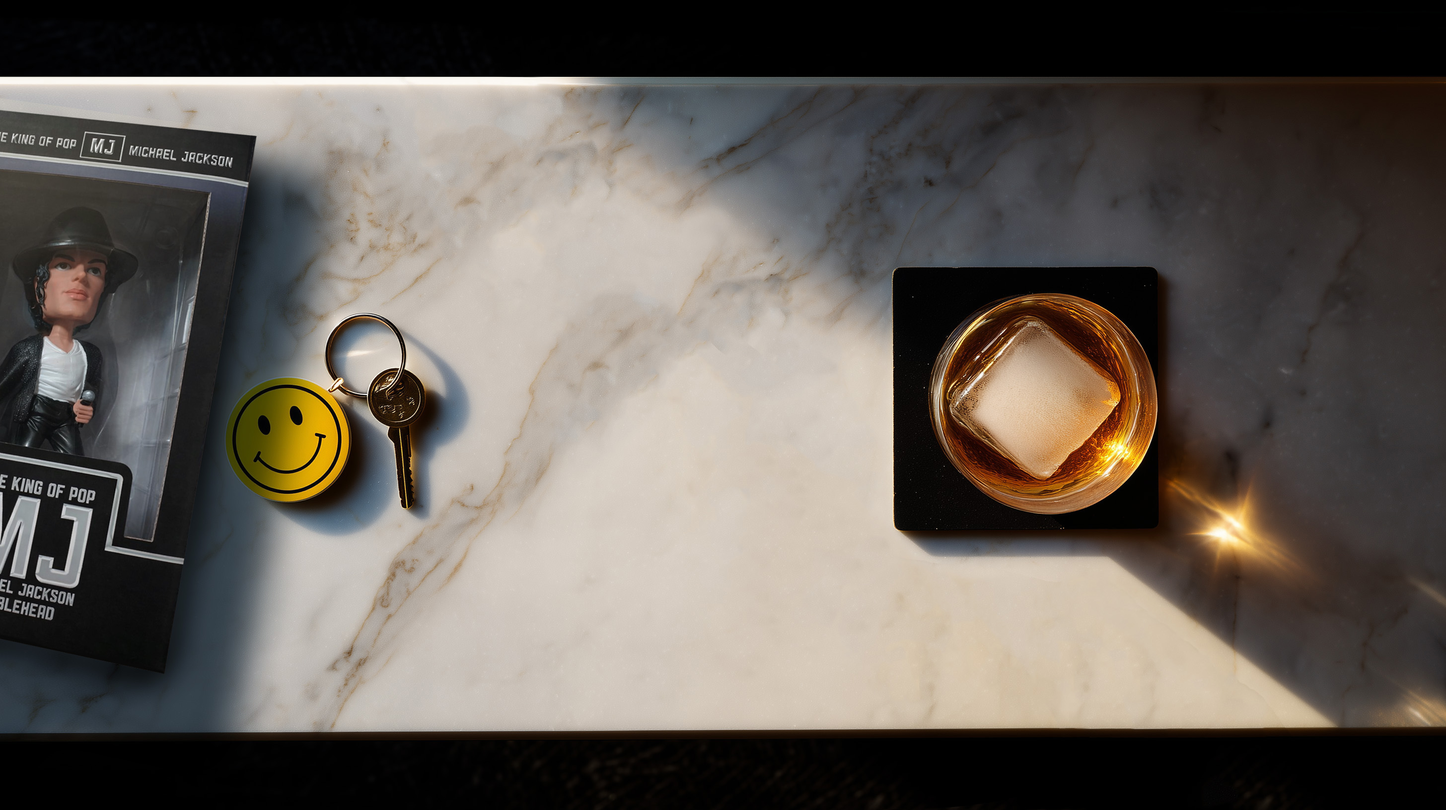
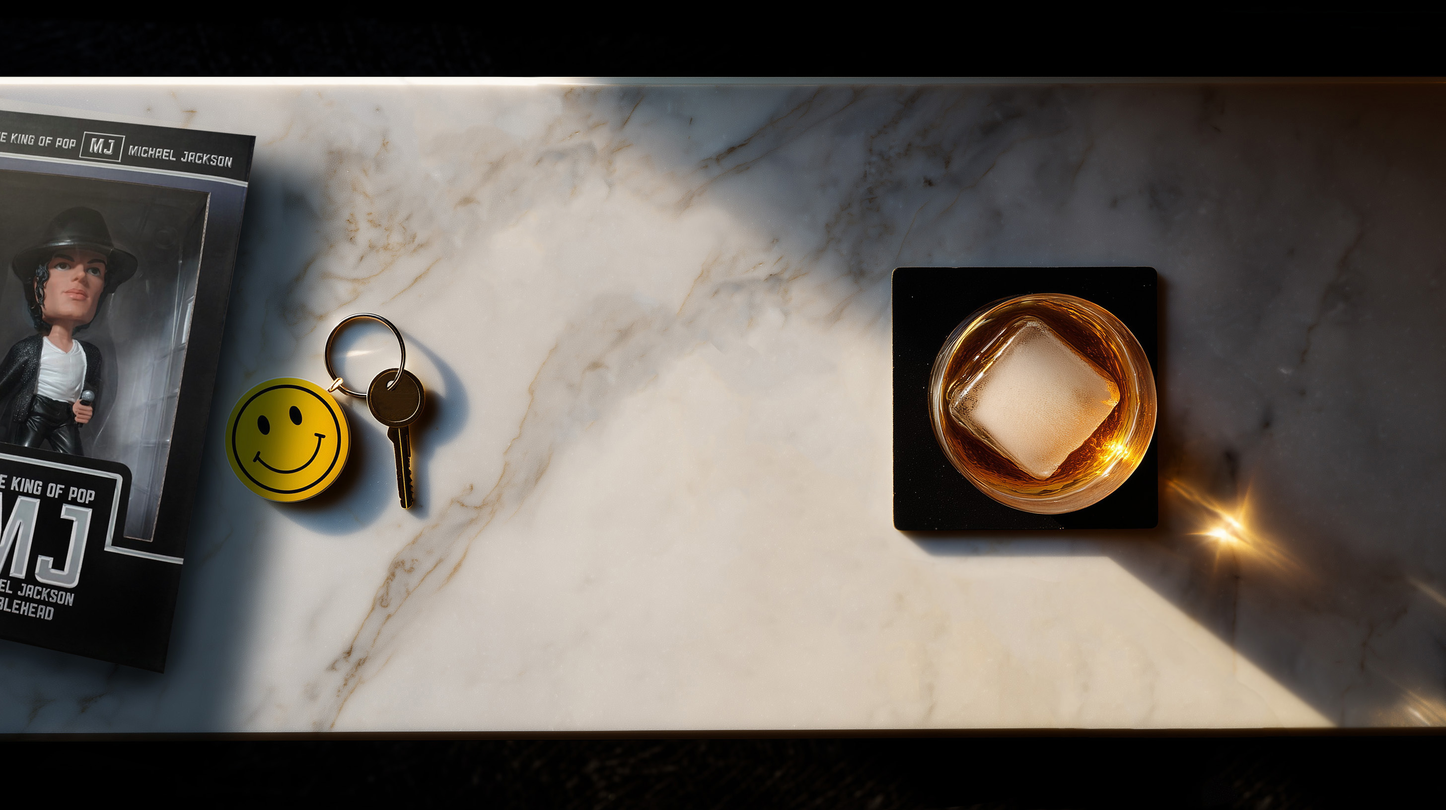
cleanup of unused files

diff --git a/index.html b/index.html
@@ -13,14 +13,13 @@
 <body>
 <audio id="MJ-hee-hee" src="assets/sound/hee-hee.mp3" type="audio/mp3"></audio>
 <audio id="MJ-shamona" src="assets/sound/shamona.mp3" type="audio/mp3"></audio>
-<audio id="MJ-yow" src="assets/sound/yow.mp3"></audio>
 <audio id="MJ-beat-it" src="assets/sound/beat-it.mp3"></audio>
 <audio id="MJ-why-not" src="assets/sound/why-not.mp3"></audio>
 <audio id="MJ-rejected" src="assets/sound/rejected.mp3"></audio>
     <main>
         <img
     id="reflection"
-    src="assets/img/reflection2.gif"
+    src="assets/img/reflection.gif"
     alt=""
     aria-hidden="true"> 
         <div class="camera-hole"></div>

diff --git a/js/script.js b/js/script.js
@@ -5,7 +5,6 @@ const contactPhone = document.getElementById('phone'); // Hämtar telefonnummer-
 const contactList = document.getElementById('contact-list'); // Hämtar kontaktlistan och sparar i en variabel
 const heeHeeSound = document.getElementById('MJ-hee-hee'); // Ljud är kul
 const shamonaSound = document.getElementById('MJ-shamona');
-const yowSound = document.getElementById('MJ-yow');
 const beatitSound = document.getElementById('MJ-beat-it');
 const whyNotSound = document.getElementById('MJ-why-not');
 const rejectedSound = document.getElementById('MJ-rejected');
